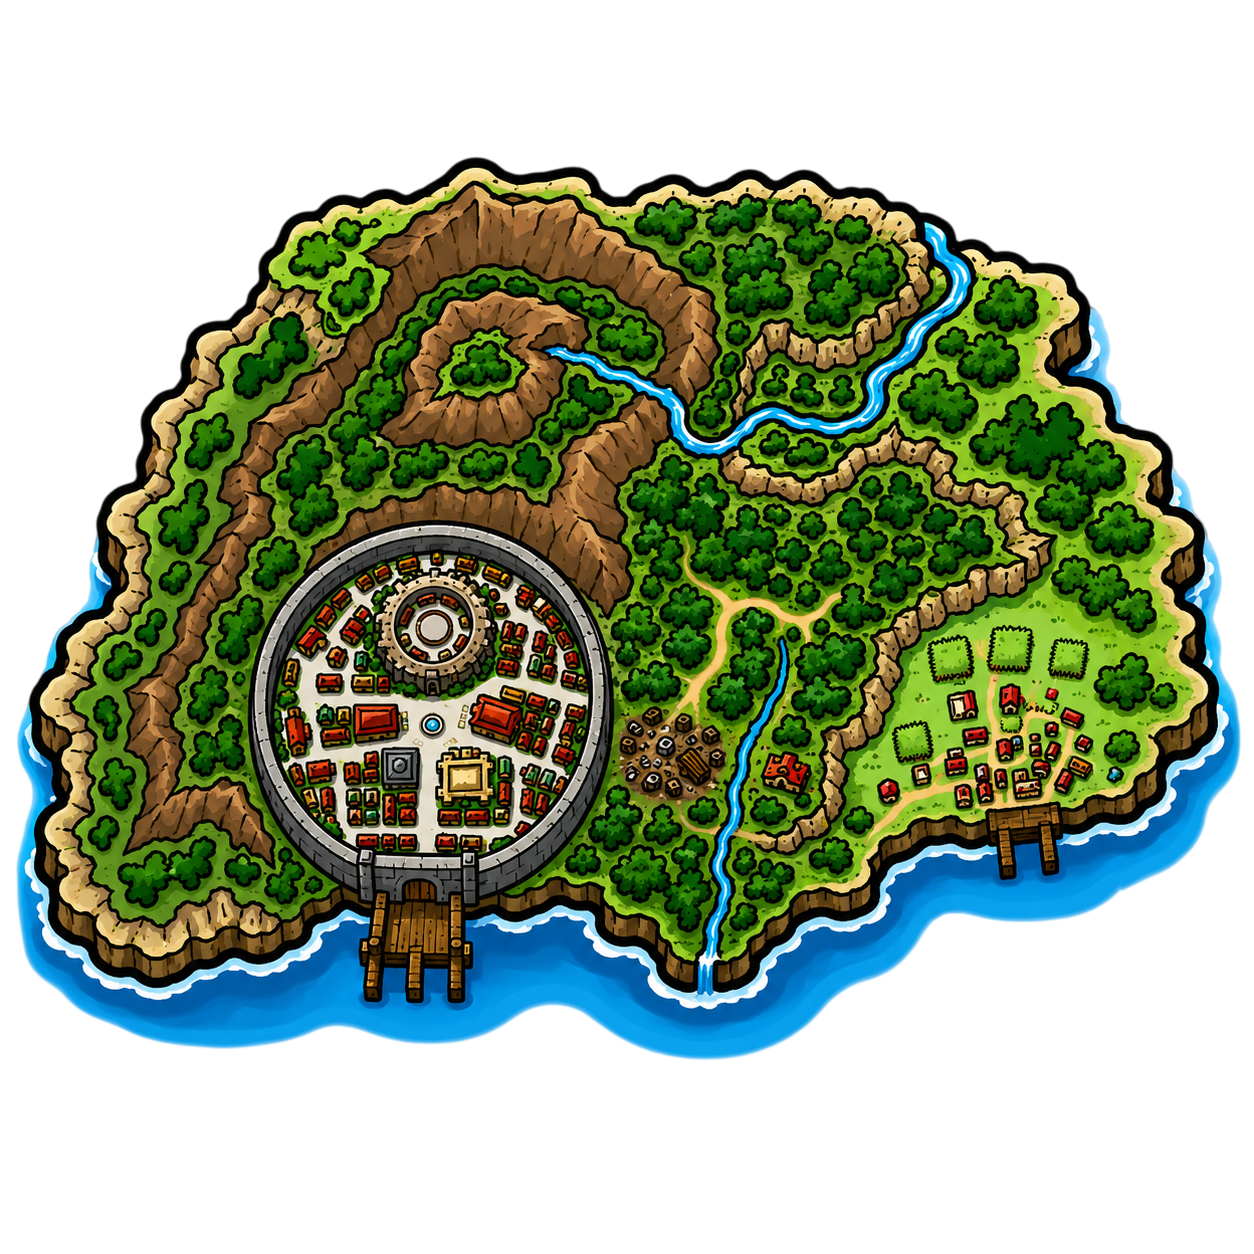
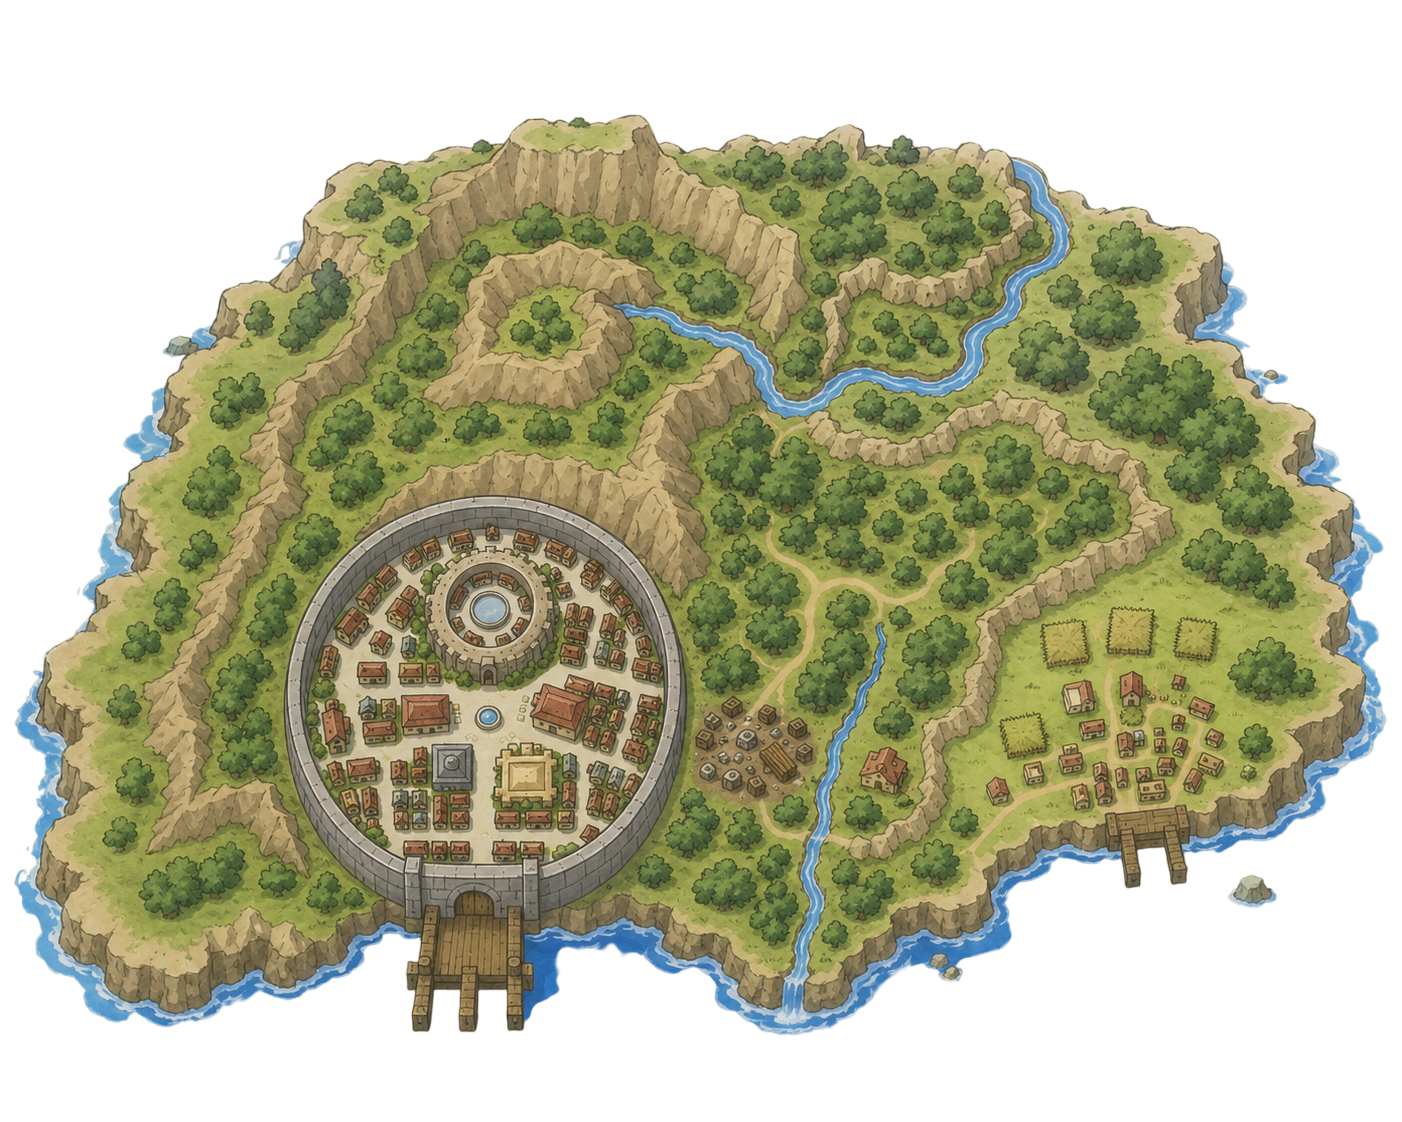
test amélioration map-monde

diff --git a/src/app/pages/monde/monde.ts b/src/app/pages/monde/monde.ts
@@ -25,8 +25,8 @@ export class Monde implements AfterViewInit {
 
   private map?: L.Map;
   private readonly zonesLayer = L.layerGroup();
-  private readonly zoomParDefaut = 1;
-  private readonly zoomIle = 3;
+  private readonly zoomParDefaut = 0;
+  private readonly zoomIle = 2;
   private clicResetEffectue = false;
   private ileSelectionnee: IleData | null = null;
   private derniereIleDebloquee: L.LatLngExpression | null = null;
@@ -76,8 +76,8 @@ export class Monde implements AfterViewInit {
   }
 
   private initialiserCarte(): void {
-    const largeur = 1776;
-    const hauteur = 887;
+    const largeur = 1672;
+    const hauteur = 941;
 
     const bounds: L.LatLngBoundsExpression = [
       [0, 0],
@@ -90,8 +90,7 @@ export class Monde implements AfterViewInit {
       scrollWheelZoom: false,
       attributionControl: false,
       minZoom: 0,
-      maxZoom: 3,
-      maxBoundsViscosity: 0.8,
+      maxZoom: 2,
     });
 
     L.imageOverlay('/assets/images/map-monde.png', bounds).addTo(this.map);
@@ -185,7 +184,7 @@ export class Monde implements AfterViewInit {
       return;
     }
 
-    const positionFuschia: L.LatLngExpression = [745, 1612];
+    const positionFuschia: L.LatLngExpression = [500, 1500];
     const villageFuschia = L.circleMarker(positionFuschia, {
       radius: 10,
       color: '#ffd230',

diff --git a/src/app/pages/monde/monde.scss b/src/app/pages/monde/monde.scss
@@ -9,15 +9,16 @@
 .map-section {
   width: 100%;
   height: 100%;
-  overflow: hidden;
-  background: rgba(0, 0, 0, 0.78);
-  border: 1px $color-gold solid;
   border-radius: 10px;
 }
 
 #world-map {
   width: calc(100% - 1px);
   height: 100%;
+}
+
+.leaflet-container {
+  background: transparent;
 }
 
 :host ::ng-deep .island-label {